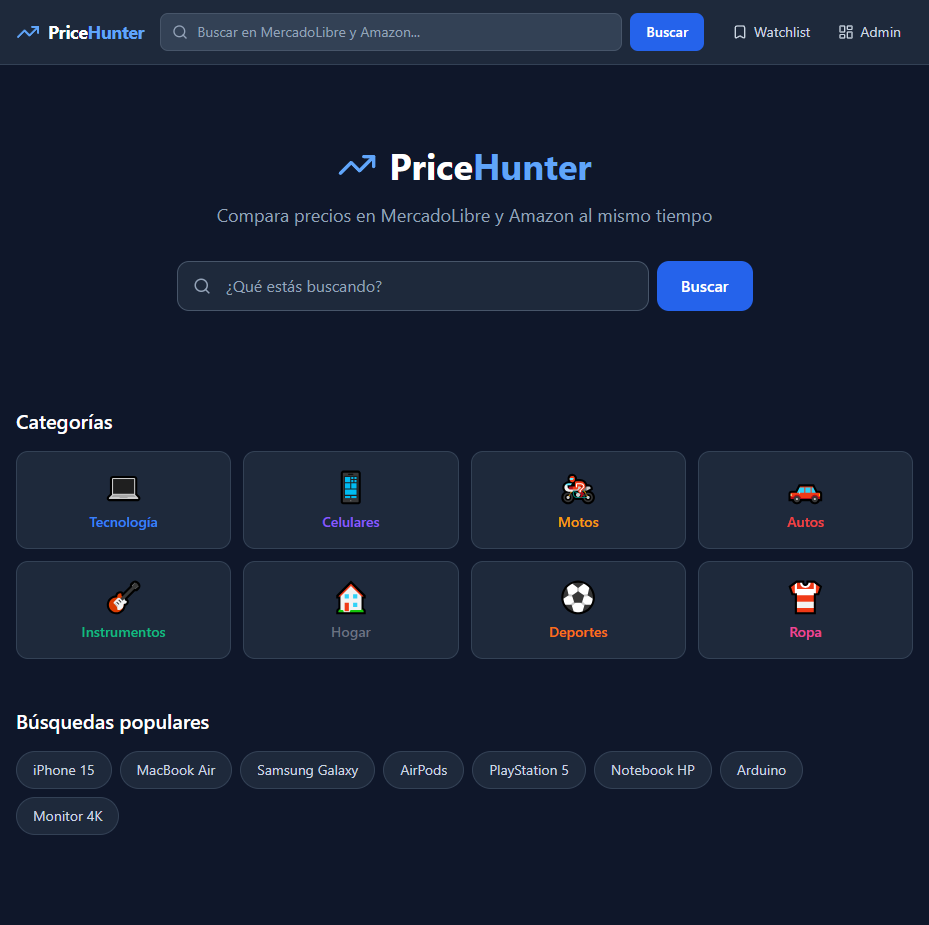
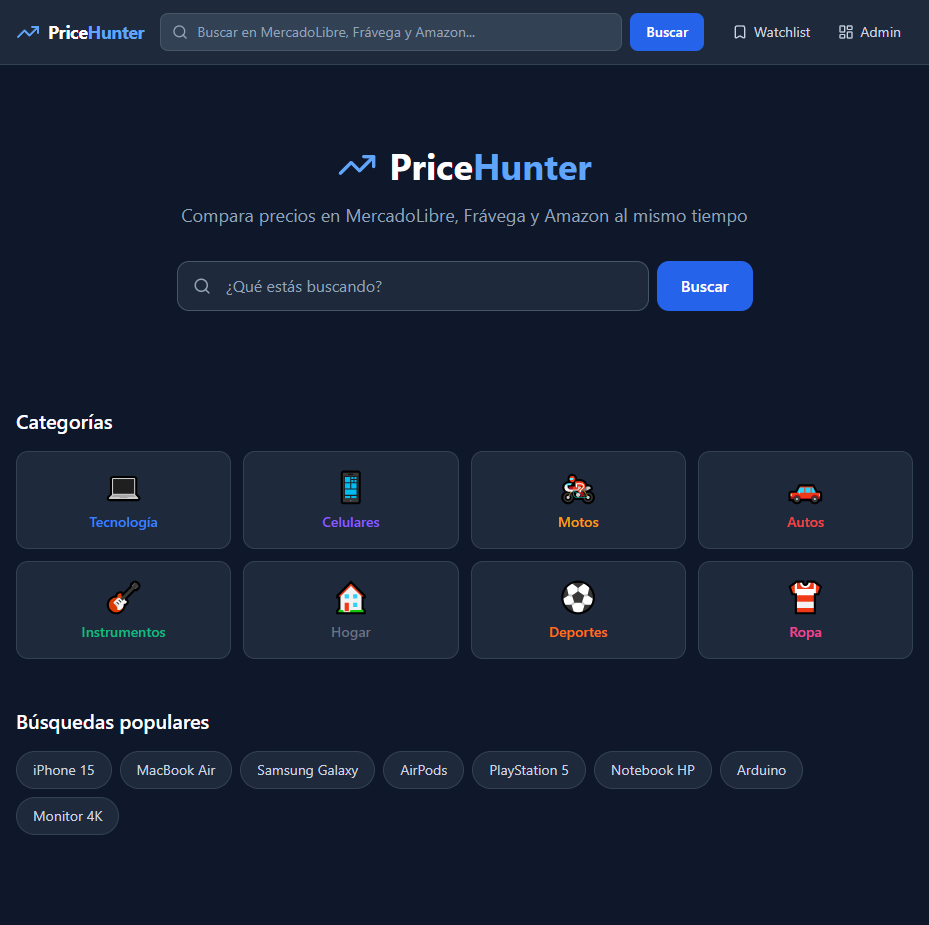
docs: README completo con screenshots y docs/screenshots/
- Arquitectura, tech stack actualizado (curl_cffi, Frávega)
- Todos los endpoints incluyendo PATCH /watchlist y seed-history
- Screenshots: home, search_results, product_detail (30d chart), watchlist
- Setup local backend + frontend

Changed region(s): [[0.1873, 0.2119, 0.8116, 0.2422], [0.3746, 0.0303, 0.4995, 0.0605]]

diff --git a/README.md b/README.md
@@ -1,142 +1,176 @@
-# PriceHunter 🔍
+# PriceHunter — Comparador de precios
 
-Comparador y tracker de precios multi-plataforma. Busca productos en **MercadoLibre Argentina** y **Amazon** simultáneamente, guarda historial de precios y permite armar una watchlist personal.
+Comparador y tracker de precios multi-plataforma. Buscá productos en **MercadoLibre AR**, **Frávega** y **Amazon.com** simultáneamente, seguí la evolución histórica de precios y armá tu watchlist personal con alertas configurables.
 
-**Demo en vivo:** [pricehunter-pied.vercel.app](https://pricehunter-pied.vercel.app)
+**Demo en vivo:** [pricehunter-pied.vercel.app](https://pricehunter-pied.vercel.app)  
+**API docs:** [pricehunter-api.onrender.com/docs](https://pricehunter-api.onrender.com/docs)
 
 ---
 
 ## Screenshots
 
-### Home — Categorías y buscador
+### Home — Categorías y búsquedas populares
 ![Home](docs/screenshots/home.png)
 
-### Resultados — MercadoLibre vs Amazon lado a lado
-![Search Results](docs/screenshots/search.png)
+### Resultados — ML + Amazon lado a lado con filtros y sort
+![Search Results](docs/screenshots/search_results.png)
 
-### Detalle de producto — Historial de precios con gráfico
-![Product Detail](docs/screenshots/product.png)
+### Detalle de producto — Historial de precios con gráfico interactivo
+![Product Detail](docs/screenshots/product_detail.png)
 
-### Watchlist — Seguimiento con variación de precio
+### Watchlist — Alertas configurables y semáforo de variación
 ![Watchlist](docs/screenshots/watchlist.png)
-
-### Admin panel — Control y estadísticas
-![Admin](docs/screenshots/admin.png)
-
----
-
-## Stack
-
-| Capa | Tecnología |
-|---|---|
-| Backend | FastAPI + Python 3.11 |
-| ORM | SQLAlchemy 2.0 (async) |
-| Validación | Pydantic v2 |
-| Base de datos | PostgreSQL (Render) |
-| Scraping | httpx + BeautifulSoup4 + Playwright |
-| Scheduler | APScheduler (cada 6h) |
-| Frontend | React 18 + Vite + TypeScript |
-| Estilos | Tailwind CSS v3 |
-| Gráficos | Recharts |
-| HTTP client | TanStack Query + axios |
-| Deploy API | Render |
-| Deploy Frontend | Vercel |
 
 ---
 
 ## Features
 
-- **Búsqueda simultánea** en MercadoLibre AR y Amazon con resultados lado a lado
-- **Historial de precios** con gráfico de área interactivo (Recharts)
-- **Watchlist personal** con alertas de variación porcentual (verde/rojo)
-- **8 categorías** con búsqueda directa (Tecnología, Celulares, Motos, Autos, etc.)
-- **Admin panel** con estadísticas, lista de productos trackeados y scraping manual
-- **Scraping automático** cada 6 horas via APScheduler
-- **Dark mode** nativo con paleta slate-900
+- **Búsqueda multi-plataforma** — MercadoLibre AR + Amazon.com en paralelo, resultados en grid 2/3 columnas
+- **Filtros por fuente** — toggle ML / Frávega / Amazon, oculta columnas vacías automáticamente
+- **Sort por precio** — ordena asc/desc en todas las columnas al mismo tiempo
+- **Historial de precios** — gráfico de área interactivo (Recharts) con evolución temporal
+- **Stats min/max/avg** — estadísticas de precio calculadas sobre el historial
+- **Watchlist personal** — guardá productos con alertas de % configurables por ítem (edición inline)
+- **Toast notifications** — feedback visual al agregar/quitar productos de watchlist
+- **8 categorías** — Tecnología, Celulares, Motos, Autos, Instrumentos, Hogar, Deportes, Ropa
+- **Scraping automático** — APScheduler cada 6h para productos en watchlist
+- **Panel de administración** — stats globales, tabla paginada y scraping manual
+
+---
+
+## Tech Stack
+
+| Capa | Tecnología |
+|------|-----------|
+| Backend | FastAPI + Python 3.11 |
+| ORM | SQLAlchemy 2.0 async |
+| Base de datos | PostgreSQL (Render) |
+| Scraping ML | httpx + BeautifulSoup4 (poly-card selectors) |
+| Scraping Amazon | curl_cffi (`impersonate="chrome124"` — bypass TLS fingerprint) |
+| Scraping Frávega | Playwright + Apollo `__NEXT_DATA__` GraphQL JSON |
+| Scheduler | APScheduler (cada 6h) |
+| Frontend | React 18 + Vite + TypeScript |
+| Estilos | Tailwind CSS v3 |
+| Gráficos | Recharts |
+| HTTP client | TanStack Query + Axios |
+| Deploy API | Render (Oregon) |
+| Deploy Frontend | Vercel |
 
 ---
 
 ## Arquitectura
 
 ```
-frontend/ (React + Vite)          backend/ (FastAPI)
-     │                                  │
-     │  GET /search?q=notebook          │
-     ├─────────────────────────────────►│
-     │                                  ├── search_ml()     → MercadoLibre AR
-     │                                  ├── search_amazon() → Amazon.com
-     │                                  ├── upsert DB       → PostgreSQL
-     │  { ml: [...], amazon: [...] }    │
-     ◄─────────────────────────────────┤
-     │                                  │
+┌────────────────────────────────────────────────────────┐
+│  Frontend (Vercel)                                      │
+│  React 18 + TypeScript + TanStack Query + Tailwind     │
+└───────────────────────┬────────────────────────────────┘
+                        │ HTTPS REST
+┌───────────────────────▼────────────────────────────────┐
+│  Backend API (Render — Oregon)                          │
+│  FastAPI + SQLAlchemy async + APScheduler               │
+│                                                         │
+│  GET /search ──► ml_scraper    (httpx + BS4)           │
+│             ──► amazon_scraper (curl_cffi Chrome TLS)  │
+│             ──► fravega_scraper (Playwright / proxy)   │
+│                                                         │
+│  Resultados → upsert DB → response                     │
+└───────────────────────┬────────────────────────────────┘
+                        │
+┌───────────────────────▼────────────────────────────────┐
+│  PostgreSQL (Render)                                    │
+│  products · price_history · watchlist · categories      │
+└────────────────────────────────────────────────────────┘
 ```
-
----
-
-## Setup local
-
-```bash
-# Backend
-git clone https://github.com/thestrokes1/PriceHunter
-cd PriceHunter
-python -m venv venv && source venv/Scripts/activate  # Windows
-pip install -r backend/requirements.txt
-pip install playwright && playwright install chromium  # solo para Amazon local
-
-# Copiar .env
-cp .env.example .env
-# Editar DATABASE_URL con tu PostgreSQL
-
-# Inicializar DB
-PYTHONPATH=. python backend/db/init_db.py
-
-# Iniciar API
-PYTHONPATH=. uvicorn backend.main:app --reload
-
-# Frontend (otra terminal)
-cd frontend && npm install && npm run dev
-```
-
-App en: http://localhost:5173
 
 ---
 
 ## API Endpoints
 
 ```
-GET  /health                    → estado del servicio y DB
-GET  /categories                → 8 categorías disponibles
-GET  /search?q=query&limit=10   → busca en ML y Amazon en paralelo
-GET  /products/{id}             → detalle + stats de precio
-GET  /products/{id}/history     → historial completo de precios
-POST /products/{id}/scrape      → forzar actualización de precio
-GET  /watchlist                 → lista personal guardada
-POST /watchlist                 → agregar producto a watchlist
-DELETE /watchlist/{id}          → quitar producto
-GET  /admin/products            → todos los productos trackeados
-GET  /admin/stats               → métricas generales
-POST /admin/scrape-all          → forzar scraping de toda la watchlist
+GET  /health
+GET  /categories
+
+GET  /search?q=...&cat=slug&limit=10
+     → { ml: [...], fravega: [...], amazon: [...] }
+
+GET  /products/{id}
+GET  /products/{id}/history
+POST /products/{id}/scrape
+
+GET    /watchlist
+POST   /watchlist         { product_id, alerta_pct }
+PATCH  /watchlist/{id}    { alerta_pct }
+DELETE /watchlist/{id}
+
+GET  /admin/products?source=&cat=
+GET  /admin/stats
+POST /admin/scrape-all
+POST /admin/seed-history
 ```
 
-Documentación interactiva: [pricehunter-api.onrender.com/docs](https://pricehunter-api.onrender.com/docs)
+---
+
+## Setup local
+
+### Backend
+
+```bash
+git clone https://github.com/thestrokes1/PriceHunter.git
+cd PriceHunter
+
+python -m venv venv
+source venv/bin/activate        # Windows: venv\Scripts\activate
+pip install -r backend/requirements.txt
+playwright install chromium     # solo para scraping Frávega local
+
+# Variables de entorno
+cp .env.example .env
+# Editar DATABASE_URL con tu PostgreSQL
+
+# Inicializar DB y categorías
+PYTHONPATH=. python backend/db/init_db.py
+
+# Correr API
+PYTHONPATH=. uvicorn backend.main:app --reload --port 8000
+```
+
+### Frontend
+
+```bash
+cd frontend
+npm install
+
+# Variables de entorno
+echo "VITE_API_URL=http://localhost:8000" > .env.local
+
+npm run dev   # → http://localhost:5173
+```
 
 ---
 
 ## Notas de scraping
 
-- **MercadoLibre**: httpx + BeautifulSoup4, selectores del design system `poly-card`
-- **Amazon**: Playwright (headless Chrome) en local, httpx con headers realistas en producción
-- Delays aleatorios entre requests para evitar rate limiting
-- User-Agent rotativo con headers realistas
+| Fuente | Método | Estado en prod |
+|--------|--------|---------------|
+| MercadoLibre | httpx + BS4, selectores `poly-card` | ✅ Funciona |
+| Amazon | curl_cffi `chrome124` (bypass TLS fingerprint) | ✅ Funciona |
+| Frávega | Playwright + `__NEXT_DATA__` Apollo JSON | ⚠ Geo-blocked en datacenter |
+
+**Frávega:** Cloudflare bloquea IPs de datacenter (Render Oregon). Funciona perfectamente en local desde IP argentina. Alternativas en evaluación: proxy AR (~$3/mes) o GitHub Actions cron.
 
 ---
 
 ## Deploy
 
 | Servicio | Plataforma | URL |
-|---|---|---|
+|---------|-----------|-----|
 | Frontend | Vercel | [pricehunter-pied.vercel.app](https://pricehunter-pied.vercel.app) |
 | Backend API | Render (free) | [pricehunter-api.onrender.com](https://pricehunter-api.onrender.com) |
-| Base de datos | Render PostgreSQL | Virginia, US |
+| Base de datos | Render PostgreSQL | Oregon, US |
 
-> El free tier de Render duerme tras 15 min de inactividad — la primera request puede tardar ~15s en despertar.
+> El free tier de Render duerme tras 15 min de inactividad — la primera request puede tardar ~15s.
+
+---
+
+Desarrollado por **Cristian** — proyecto portfolio Full Stack Python + React.
